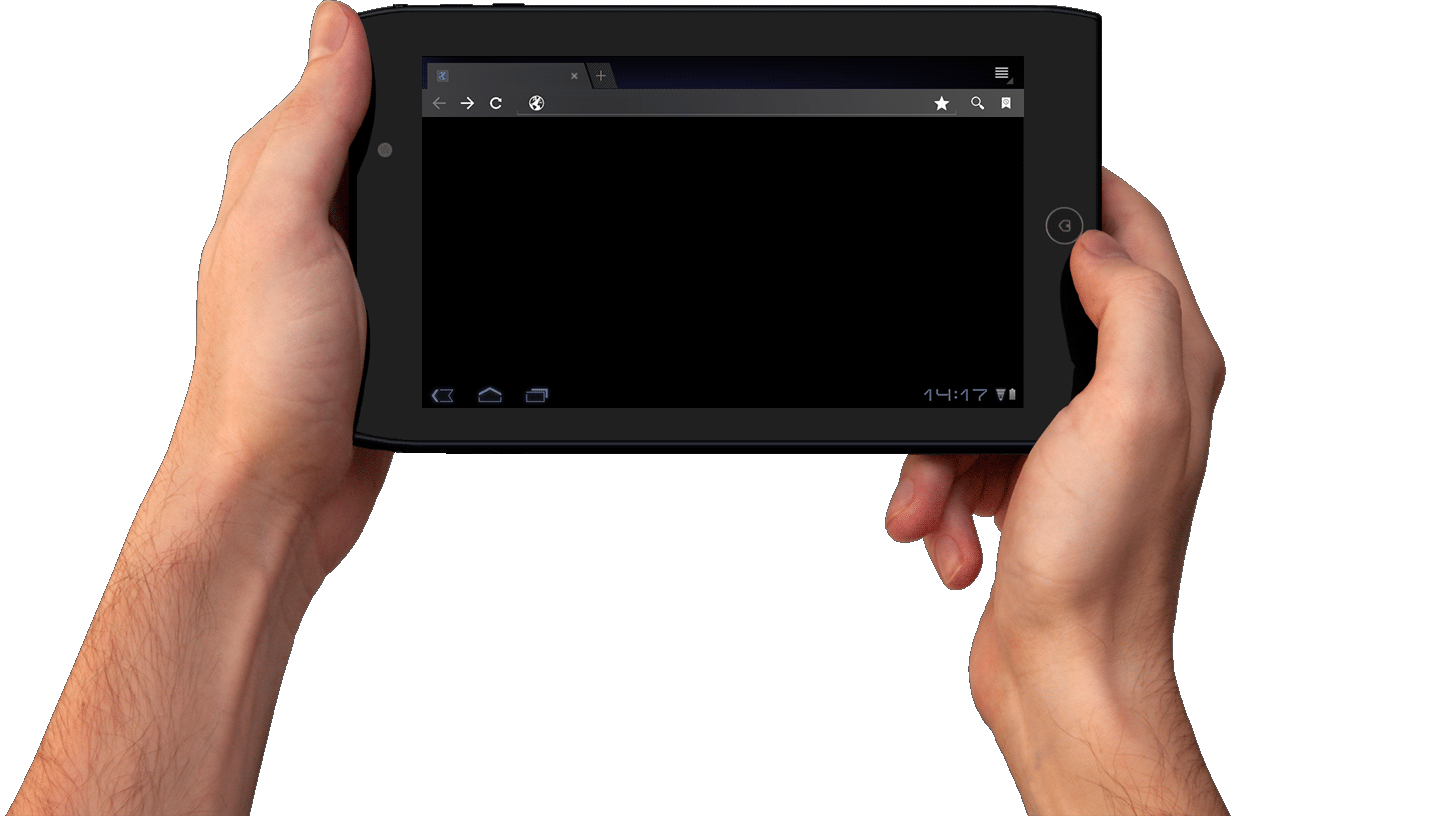
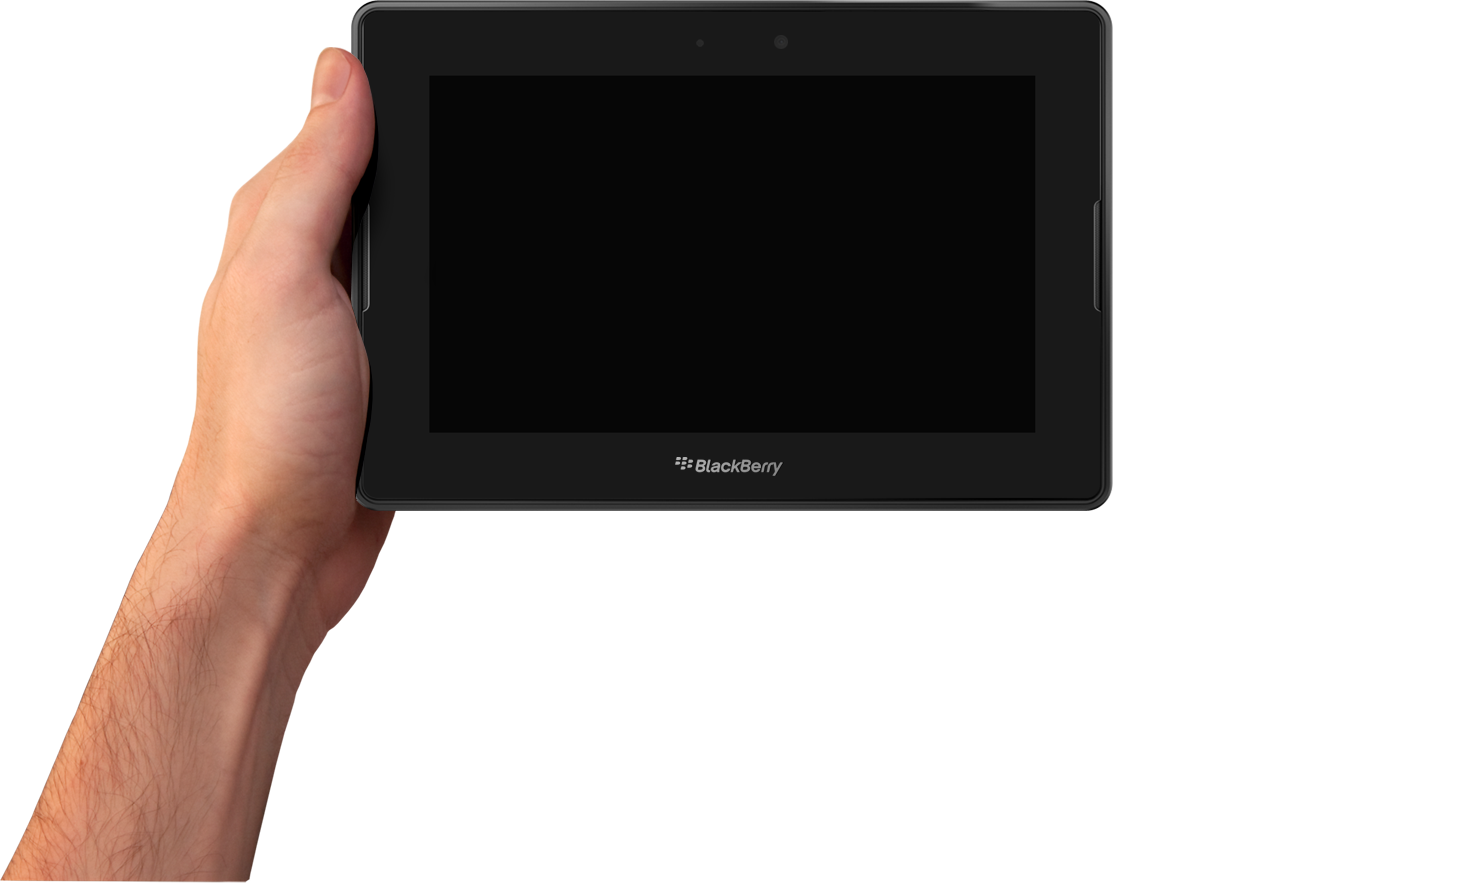
Add PlayBook and Torch images, update CSS accordingly.

diff --git a/devices/playbook/styles.css b/devices/playbook/styles.css
@@ -5,75 +5,37 @@
 
 .device-container.vertical .device-skin
 {
-    padding-top: 2.7cm;
     background-image: url("images/vertical.png");
 }
 
 .device-container.horizontal .device-skin
 {
-    padding-top: 2.3cm;
     background-image: url("images/horizontal.png");
 }
 
 .device-container.vertical
 {
-    height: 1000px;
-    width: 850px;
-    padding: 3.42cm 6.6cm 10.1cm 6.74cm;
+    width: 1193px;
+    height: 988px;
+    padding: 2.1cm 11.1cm 8cm 11.05cm;
     bottom: -150px;
 }
 
 .device-container.horizontal
 {
-    height: 800px;
-    padding: 3.04cm 10.4cm 11.3cm 10.56cm;
-    width: 1360px;
+    height: 883px;
+    padding: 2.02cm 11.28cm 11.94cm 11.28cm;
+    width: 1454px;
     bottom: -150px;
+    left: -100px;
 }
 
 #address-bar
 {
-    color: #FFFFFF;
-    height: 18px;
-}
-
-.device-container.vertical #address-bar
-{
-    left: 380px;
-    top: 105px;
-    width: 130px;
-}
-
-.device-container.horizontal #address-bar
-{
-    left: 520px;
-    top: 90px;
-    width: 352px;
+    display: none;
 }
 
 .device-container #navigate-back
 {
-    background: rgba(255,255,255,.3);
-    top: auto;
-}
-
-.device-container #navigate-back:hover
-{
-    background: rgba(255,255,255,.1);
-}
-
-.device-container.vertical #navigate-back
-{
-    bottom: 360px;
-    left: 260px;
-    width: 32px;
-    height: 22px;
-}
-
-.device-container.horizontal #navigate-back
-{
-    bottom: 400px;
-    left: 403px;
-    width: 31px;
-    height: 24px;
+    display: none;
 }

diff --git a/devices/torch/styles.css b/devices/torch/styles.css
@@ -5,72 +5,37 @@
 
 .device-container.vertical .device-skin
 {
-    padding-top: 2.74cm;
     background-image: url("images/vertical.png");
 }
 
 .device-container.horizontal .device-skin
 {
-    padding-top: 1.22cm;
     background-image: url("images/horizontal.png");
 }
 
 .device-container.vertical
 {
-    bottom: -150px;
-    width: 864px;
-    height: 800px;
-    padding: 3.88cm 8.24cm 8.46cm 8.3cm;
+    bottom: -350px;
+    width: 1157px;
+    height: 1188px;
+    padding: 2.5cm 12.42cm 16.28cm 10.54cm;
 }
 
 .device-container.horizontal
 {
-    bottom: -150px;
-    width: 1115px;
-    height: 704px;
-    padding: 2.34cm 9.69cm 11.78cm;
+    bottom: -450px;
+    width: 1571px;
+    height: 1064px;
+    padding: .94cm 14.26cm 19.56cm 14.66cm;
+    left: -150px
 }
 
 #address-bar
 {
-    height: 18px;
-}
-
-.device-container.vertical #address-bar
-{
-    left: 346px;
-    top: 116px;
-    width: 154px;
-}
-
-.device-container.horizontal #address-bar
-{
-    left: 396px;
-    top: 57px;
-    width: 303px;
+    display: none;
 }
 
 .device-container #navigate-back
 {
-    background: rgba(255,255,255,.3);
-    width: 25px;
-    height: 25px;
-}
-
-.device-container #navigate-back:hover
-{
-    background: rgba(255,255,255,.1);
-}
-
-.device-container.vertical #navigate-back
-{
-    top: auto;
-    bottom: 275px;
-    left: 336px;
-}
-
-.device-container.horizontal #navigate-back
-{
-    top: 47px;
-    left: 322px;
+    display: none;
 }

diff --git a/content/index.html b/content/index.html
@@ -162,7 +162,7 @@
     <div data-role="layout" data-id="overview-layout">
         <header data-role="header">
             <div data-role="navbar">
-                <!--a class="nav-button" data-align="left" data-role="backbutton">Back</a-->
+                <a class="nav-button" data-align="left" data-role="backbutton">Back</a>
                 <span data-role="view-title">My Contacts</span>
             </div>
         </header>
@@ -257,6 +257,7 @@
     .photo10 {background-image: url("images/cities/san-francisco.jpg");}
 
     #scrollview-container {
+        width: 100%;
         margin: 3px 0 1em 0;
         padding-bottom: 10px;
         background: rgba(0,0,0,.1);
